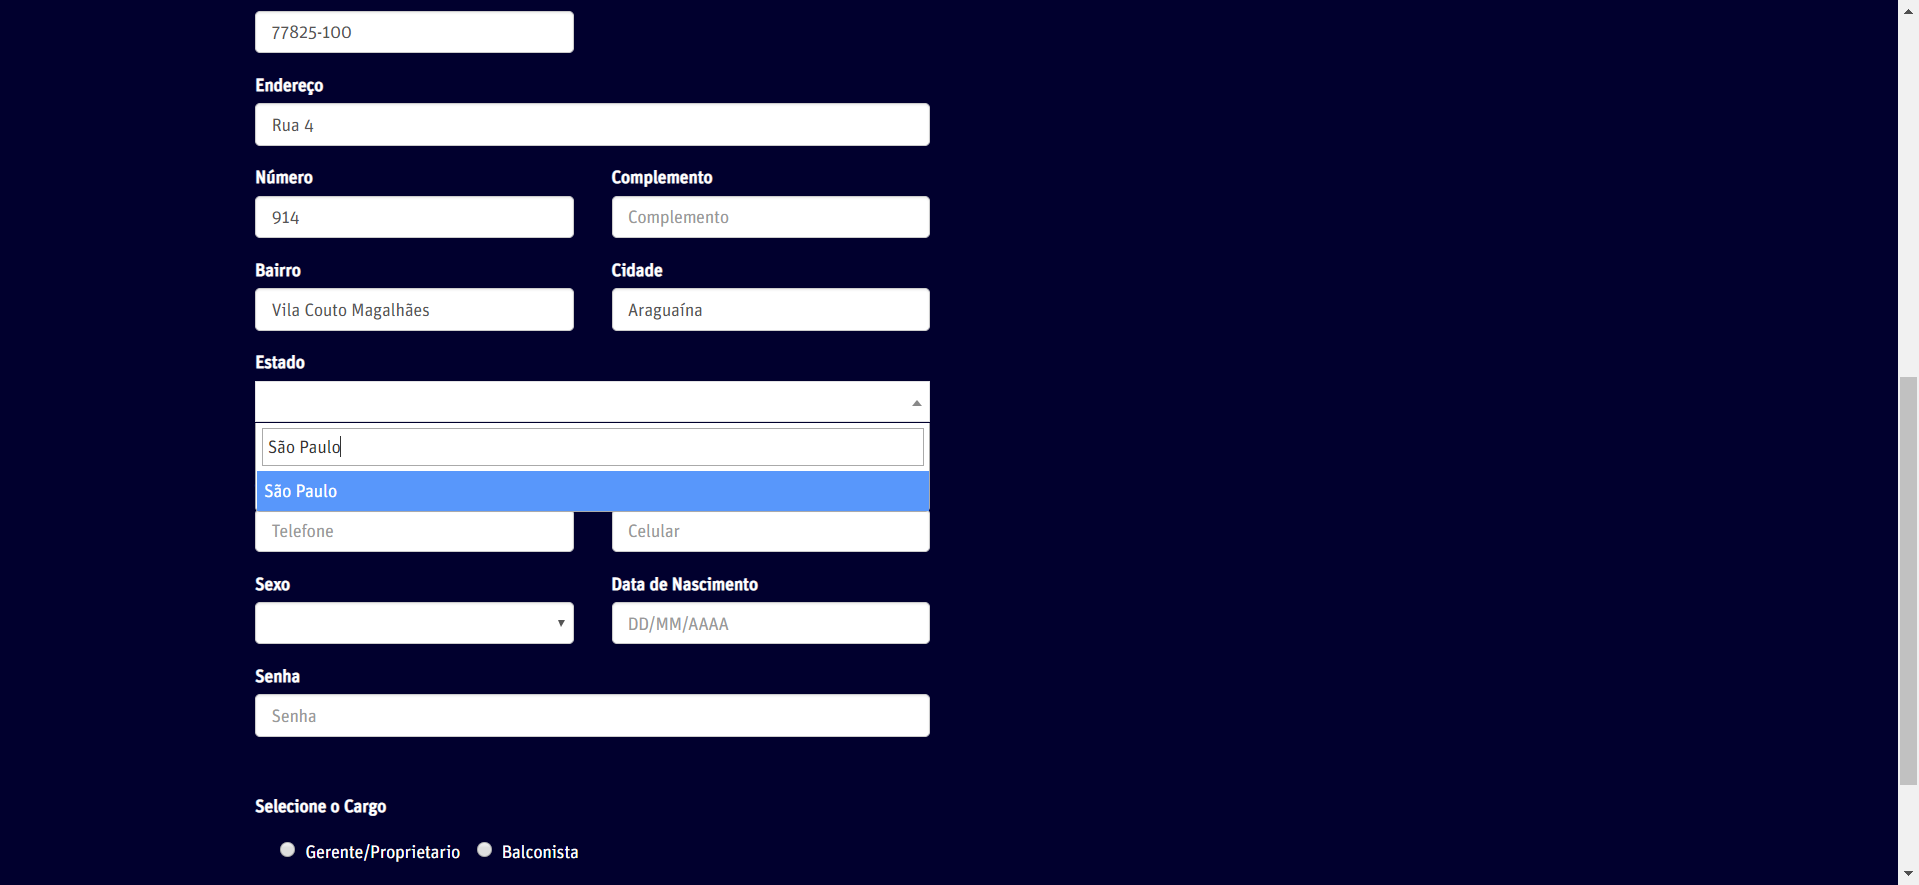
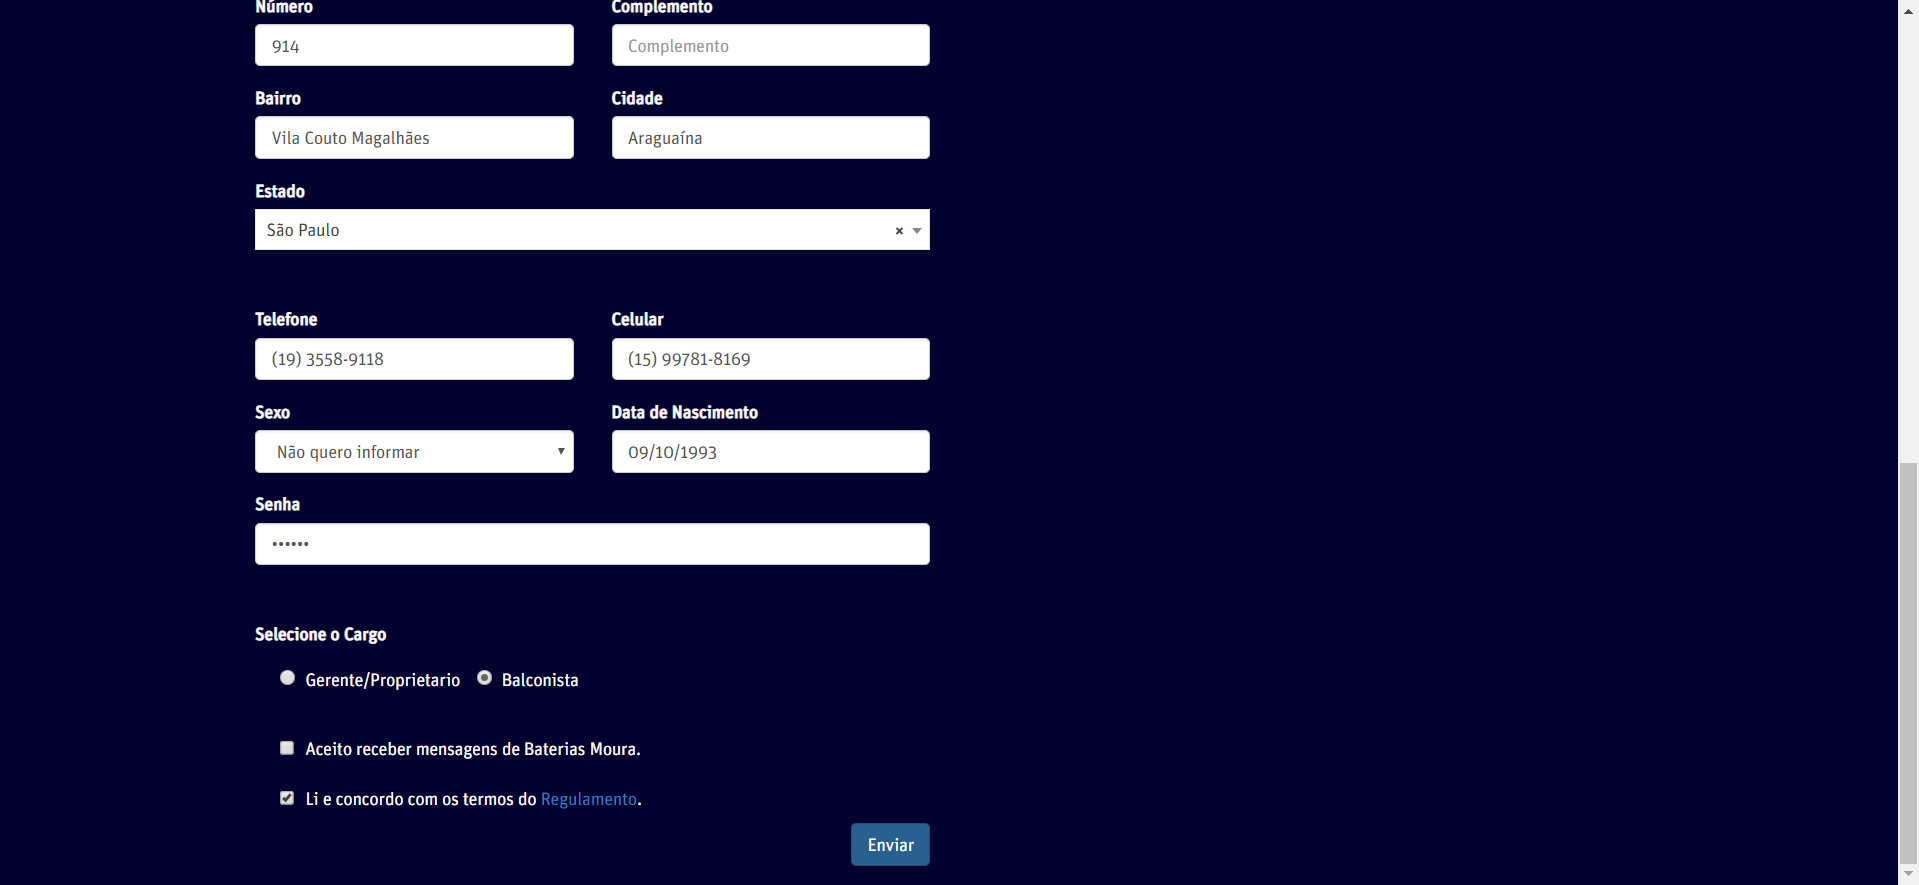
12

diff --git a/src/test/java/Moura/core/BasePage.java b/src/test/java/Moura/core/BasePage.java
@@ -411,7 +411,7 @@ public class BasePage {
 	public String GeraCEP() {
 		String[] Cep = { "18115760", "69099208", "60868717", "93544260", "29046552", "58401186",
 				"74948060", "09894330", "13475294", "23510540", "77825100", "64090685", "68904395",
-				"49008051", "18000560", "79005100", "88132013", "49042020" };
+				"49008051", "79005100", "88132013", "49042020" };
 		StringBuilder CepAleatorio = new StringBuilder();
 		CepAleatorio.append(Cep[new Random().nextInt(26)]).append(" ");
 				
@@ -428,8 +428,20 @@ public class BasePage {
 		return telefoneAleatorio.toString();
 	}
 	
+	public String GerarCelularAleatorio() {
+		
+	String[] celular= {"15997733088", "15988000556", "15991197011", "15988000879", "15988047299", "15997818169", "15998433033",
+						"15974055556","15996577402"};
+	StringBuilder celularAleatorio = new StringBuilder();
+	celularAleatorio.append(celular[new Random().nextInt(10)]).append(" ");
+	
+	return celularAleatorio.toString();
+	}
+		
+		
+	}
 	
 
-}
+
 
 

diff --git a/src/test/java/Page/Moura/CadastroUsúario/CadastroUsúario.java b/src/test/java/Page/Moura/CadastroUsúario/CadastroUsúario.java
@@ -97,10 +97,10 @@ public class CadastroUsúario extends BasePage {
 		Thread.sleep(1000);
 		escreveTexto(By.cssSelector(".select2-search__field"),"São Paulo");
 		Thread.sleep(1000);
-		
-		WebElement Formapg = getDriver().findElement(By.id("select2-estado-results"));
-		Select comboforma = new Select(Formapg);
-		comboforma.selectByValue("56");
+		clicarBotaoBy(By.cssSelector(".select2-results"));
+		//WebElement Formapg = getDriver().findElement(By.cssSelector(".select2-results__options"));
+		//Select comboforma = new Select(Formapg);
+		//comboforma.selectByValue("56");
 		
 	}
 	
@@ -119,7 +119,7 @@ public class CadastroUsúario extends BasePage {
 		Thread.sleep(3000);
 		clicarBotaoBy(By.id("celular"));
 		Thread.sleep(1000);
-		escreveTexto(By.id("celular"), Geratelefone());
+		escreveTexto(By.id("celular"), GerarCelularAleatorio());
 		Thread.sleep(1000);
 		
 	}
